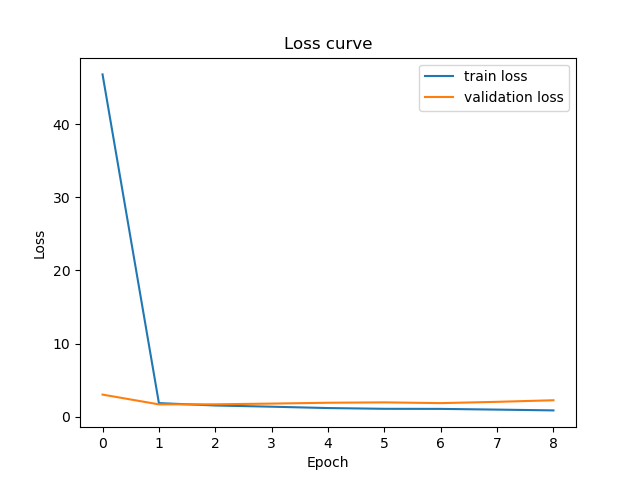
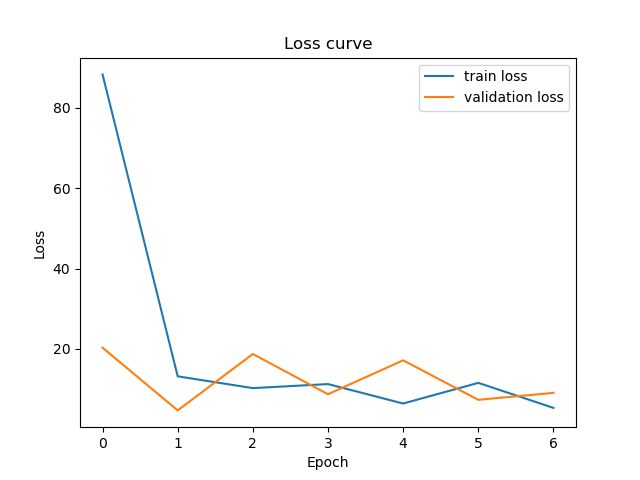
latest

diff --git a/src/modelling/eeg_scnn.py b/src/modelling/eeg_scnn.py
@@ -43,8 +43,9 @@ class EEGCSNN(torch.nn.Module):
             torch.nn.MaxPool2d(kernel_size=2, padding=0, stride=2),
             snntorch.Leaky(beta=beta, spike_grad=spike_grad, init_hidden=True),
             torch.nn.Flatten(start_dim=1),
-            torch.nn.Linear(in_features=16384, out_features=100),
-            torch.nn.Linear(in_features=100, out_features=out_features),
+            torch.nn.Linear(in_features=16384, out_features=1000),
+            snntorch.Leaky(beta=beta, spike_grad=spike_grad, init_hidden=True),
+            torch.nn.Linear(in_features=1000, out_features=out_features),
             # beta: randomly initialize decay rate for output neuron
             # Setting learn_beta=True enables the decay rate beta to be a learnable parameter
             snntorch.Leaky(beta=torch.rand(1), threshold=1.0, learn_beta=True, spike_grad=spike_grad, output=True),
@@ -105,15 +106,16 @@ class EEGCSNN(torch.nn.Module):
 def get_loader_from_dataset(
     dataset: torch.utils.data.Dataset, batch_size: int, suffle: bool = True
 ) -> torch.utils.data.DataLoader:
-    return torch.utils.data.DataLoader(dataset, batch_size=batch_size, shuffle=suffle)
+    # add normalization
+    return torch.utils.data.DataLoader(dataset, batch_size=batch_size, shuffle=suffle)  # noqa
 
 
 def train():
     # Variables
-    batch_size = 48
-    num_epochs = 30
+    batch_size = 128
+    num_epochs = 50
     # Number of epochs to wait for improvement before stopping
-    early_stopping_patience = 5
+    early_stopping_patience = 10
     model_path = Config.model_dir / "eeg_scnn.pt"
     logger = get_logger(log_filename="train.log")
 
@@ -164,12 +166,11 @@ def train():
         loss_kwargs={},
         optimizer=torch.optim.Adam,
         opt_kwargs={"betas": (0.875, 0.95), "weight_decay": 0.1},
-        lr=1e-3,
+        lr=3e-5,
     )
     net.to(device)
-    scheduler = torch.optim.lr_scheduler.StepLR(net.optimizer, step_size=10, gamma=0.1)
+    scheduler = torch.optim.lr_scheduler.StepLR(net.optimizer, step_size=20, gamma=0.1)
 
-    dtype = torch.float32
     n_train_batches = len(iter(train_loader))
     n_val_batches = len(val_loader)
 
